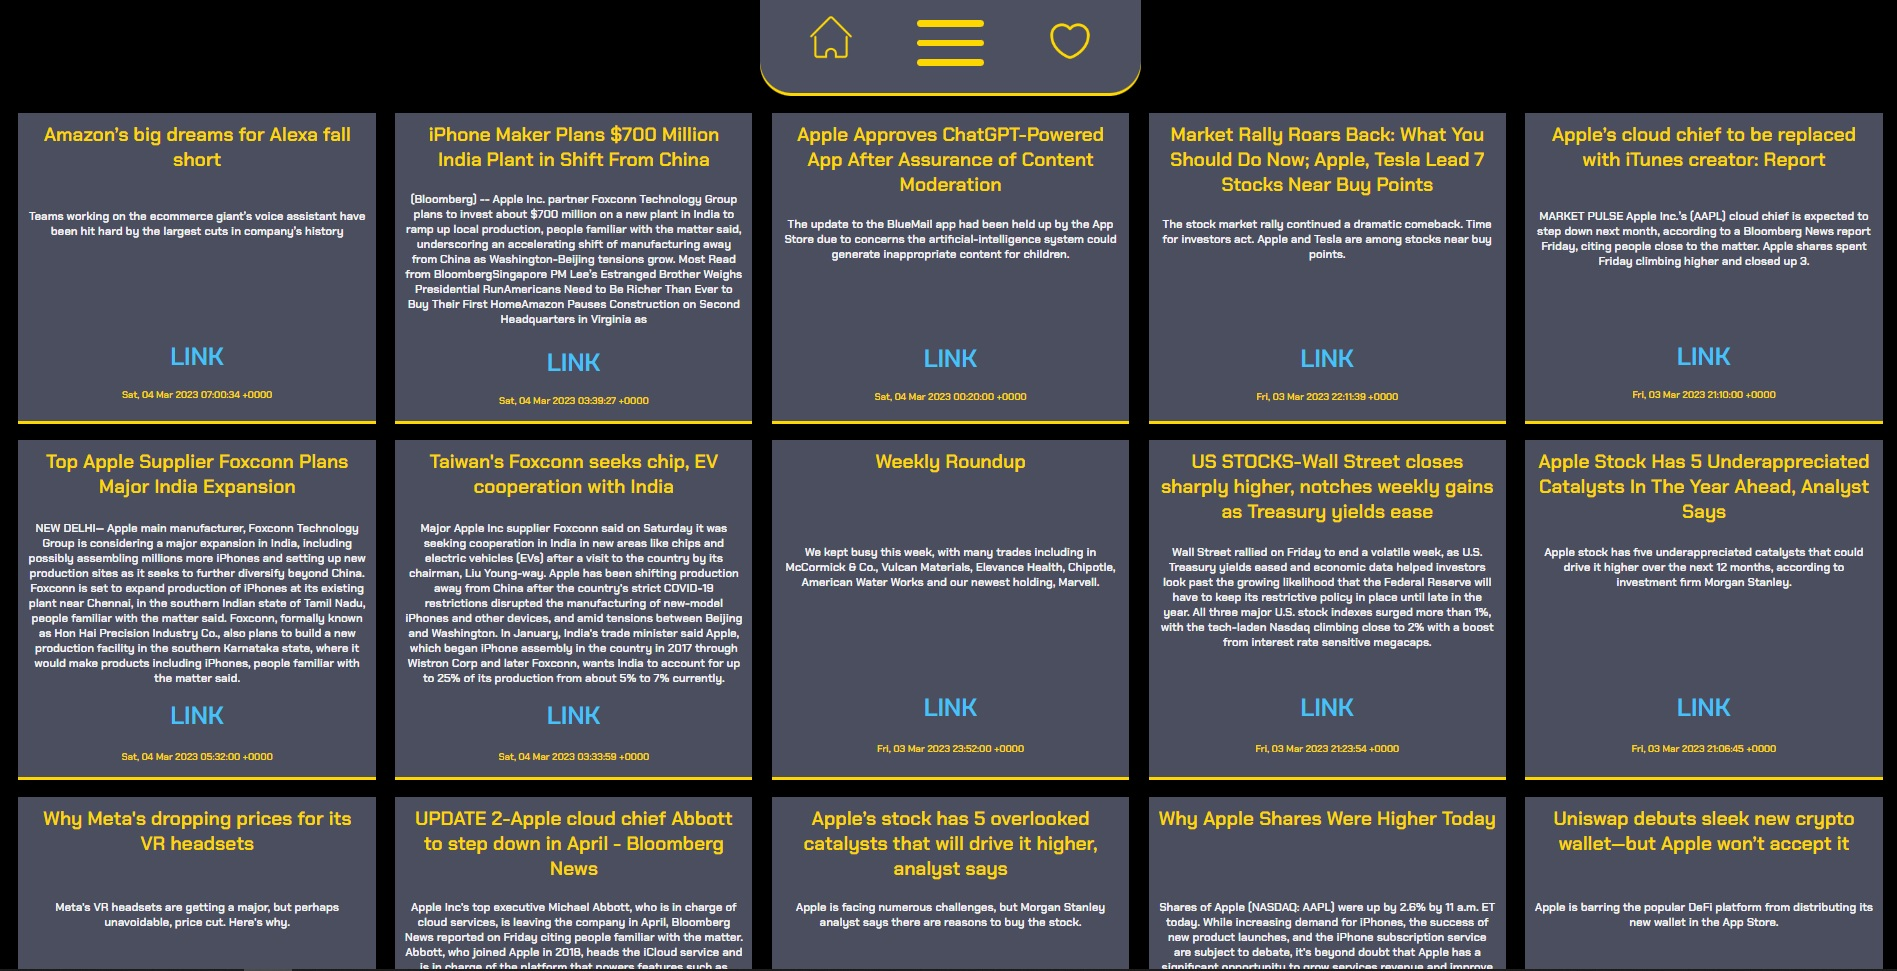
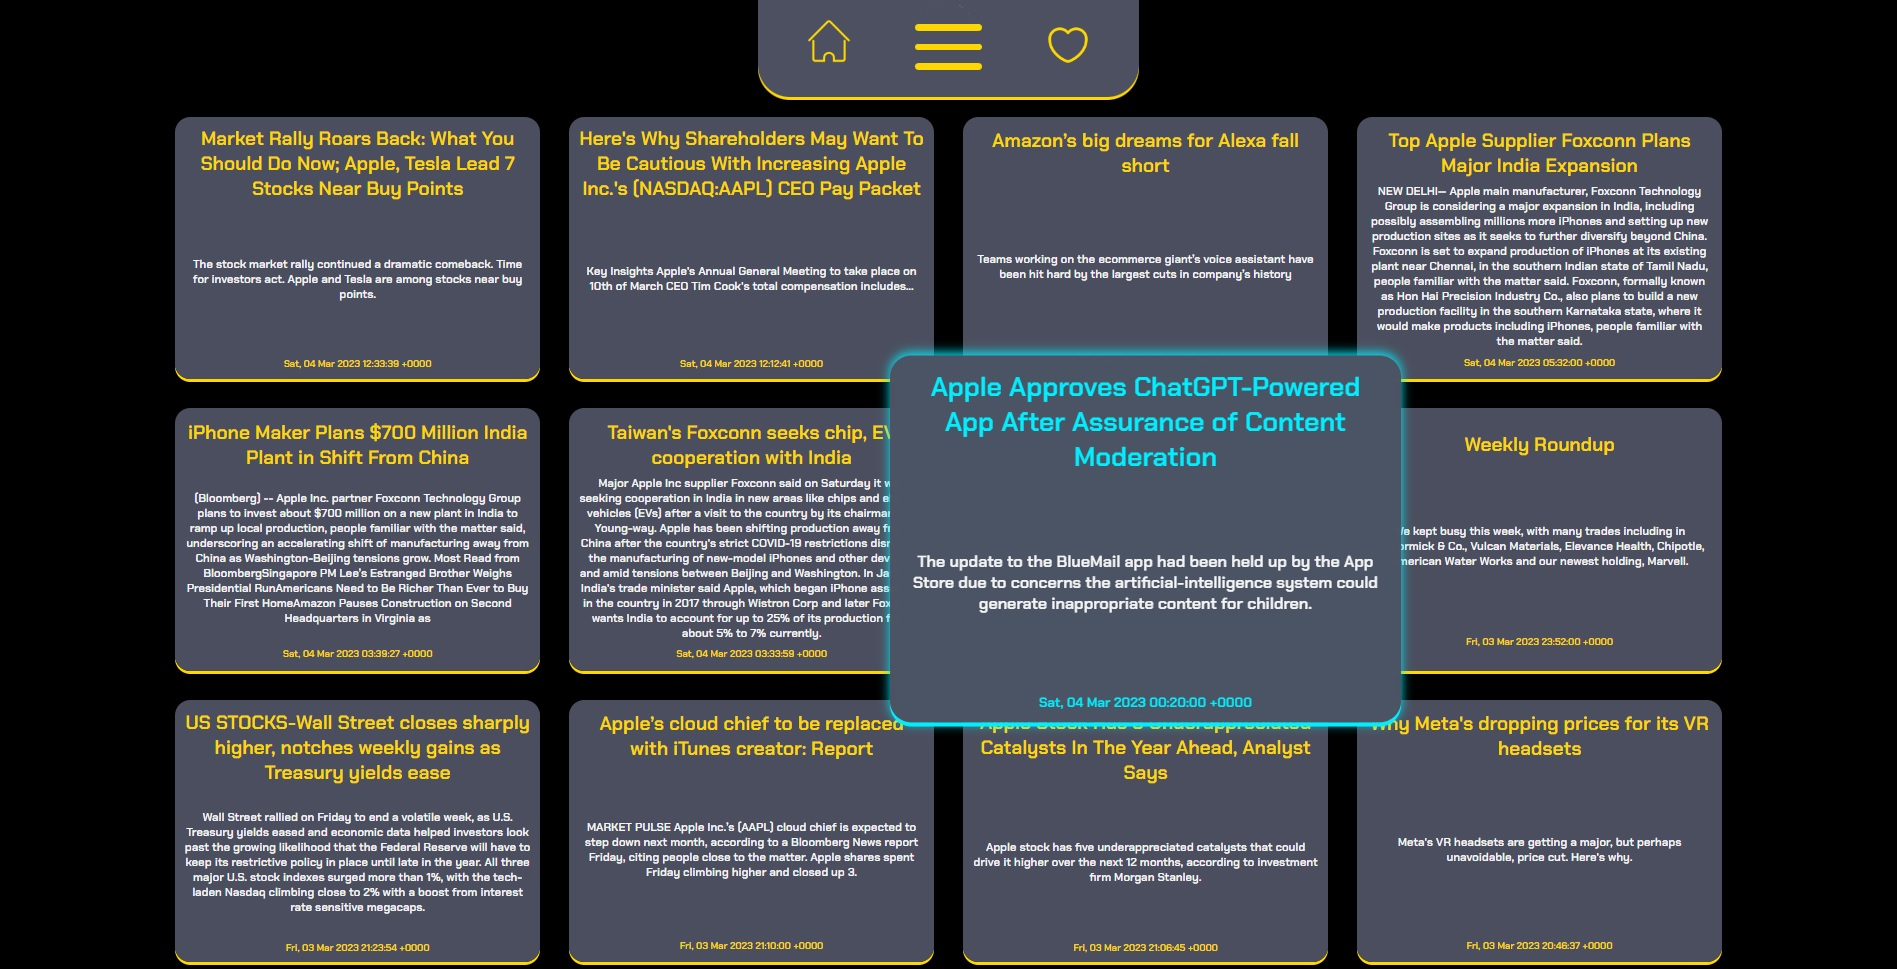
stockNewsUI

diff --git a/src/Home/Stocks/Stocks.scss b/src/Home/Stocks/Stocks.scss
@@ -11,7 +11,7 @@
 .containerSectionStocks {
   position: relative;
   display: flex;
-  gap: 2vh;
+  gap: 3vh;
   flex-wrap: wrap;
   align-items: center;
   justify-content: center;
@@ -22,11 +22,11 @@
   flex-direction: column;
   align-items: center;
   justify-content: center;
-  width: 20vw;
+  width: 18vw;
   height: 25vh;
   padding: 0.5vw;
   gap: 0.5vw;
-  border-radius: 0.5vw;
+  border-radius: 0.8vw;
   cursor: pointer;
   background-color: #4d5061f8;
   box-shadow: 0px 3px #ffd700;

diff --git a/src/Home/sass/_firstSection.scss b/src/Home/sass/_firstSection.scss
@@ -1,6 +1,3 @@
-.Home {
-  background-color: whitesmoke;
-}
 .firstSection {
   position: relative;
   display: flex;
